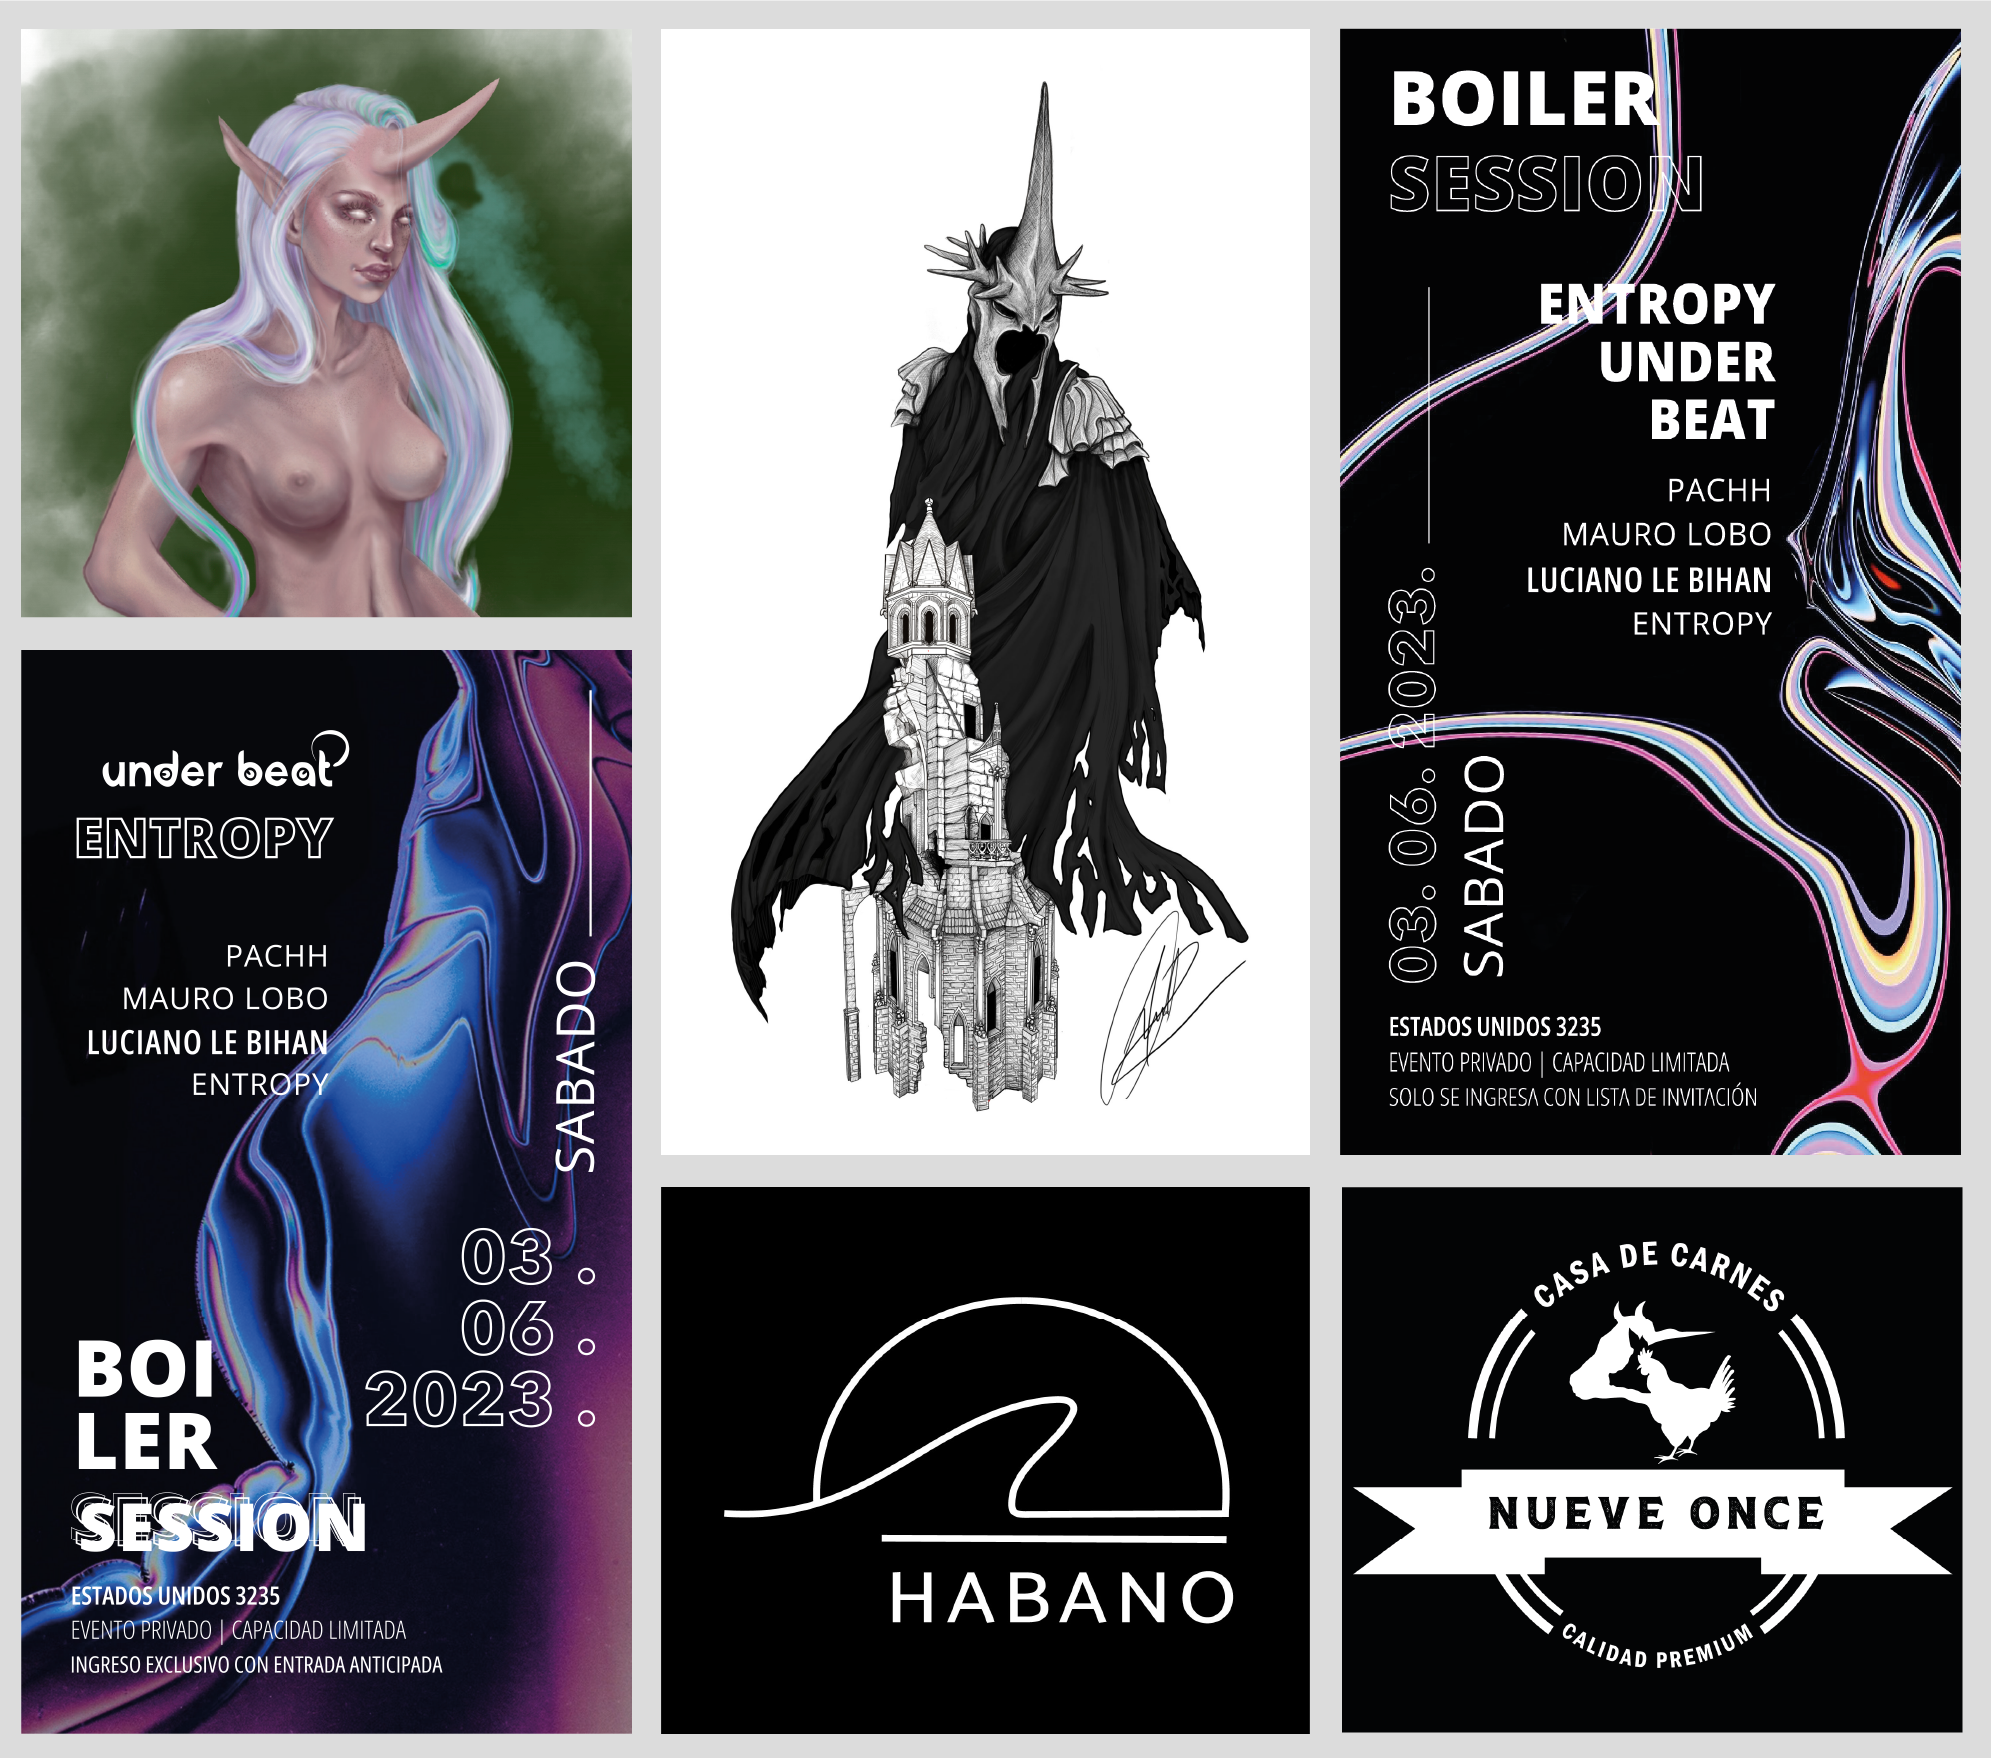
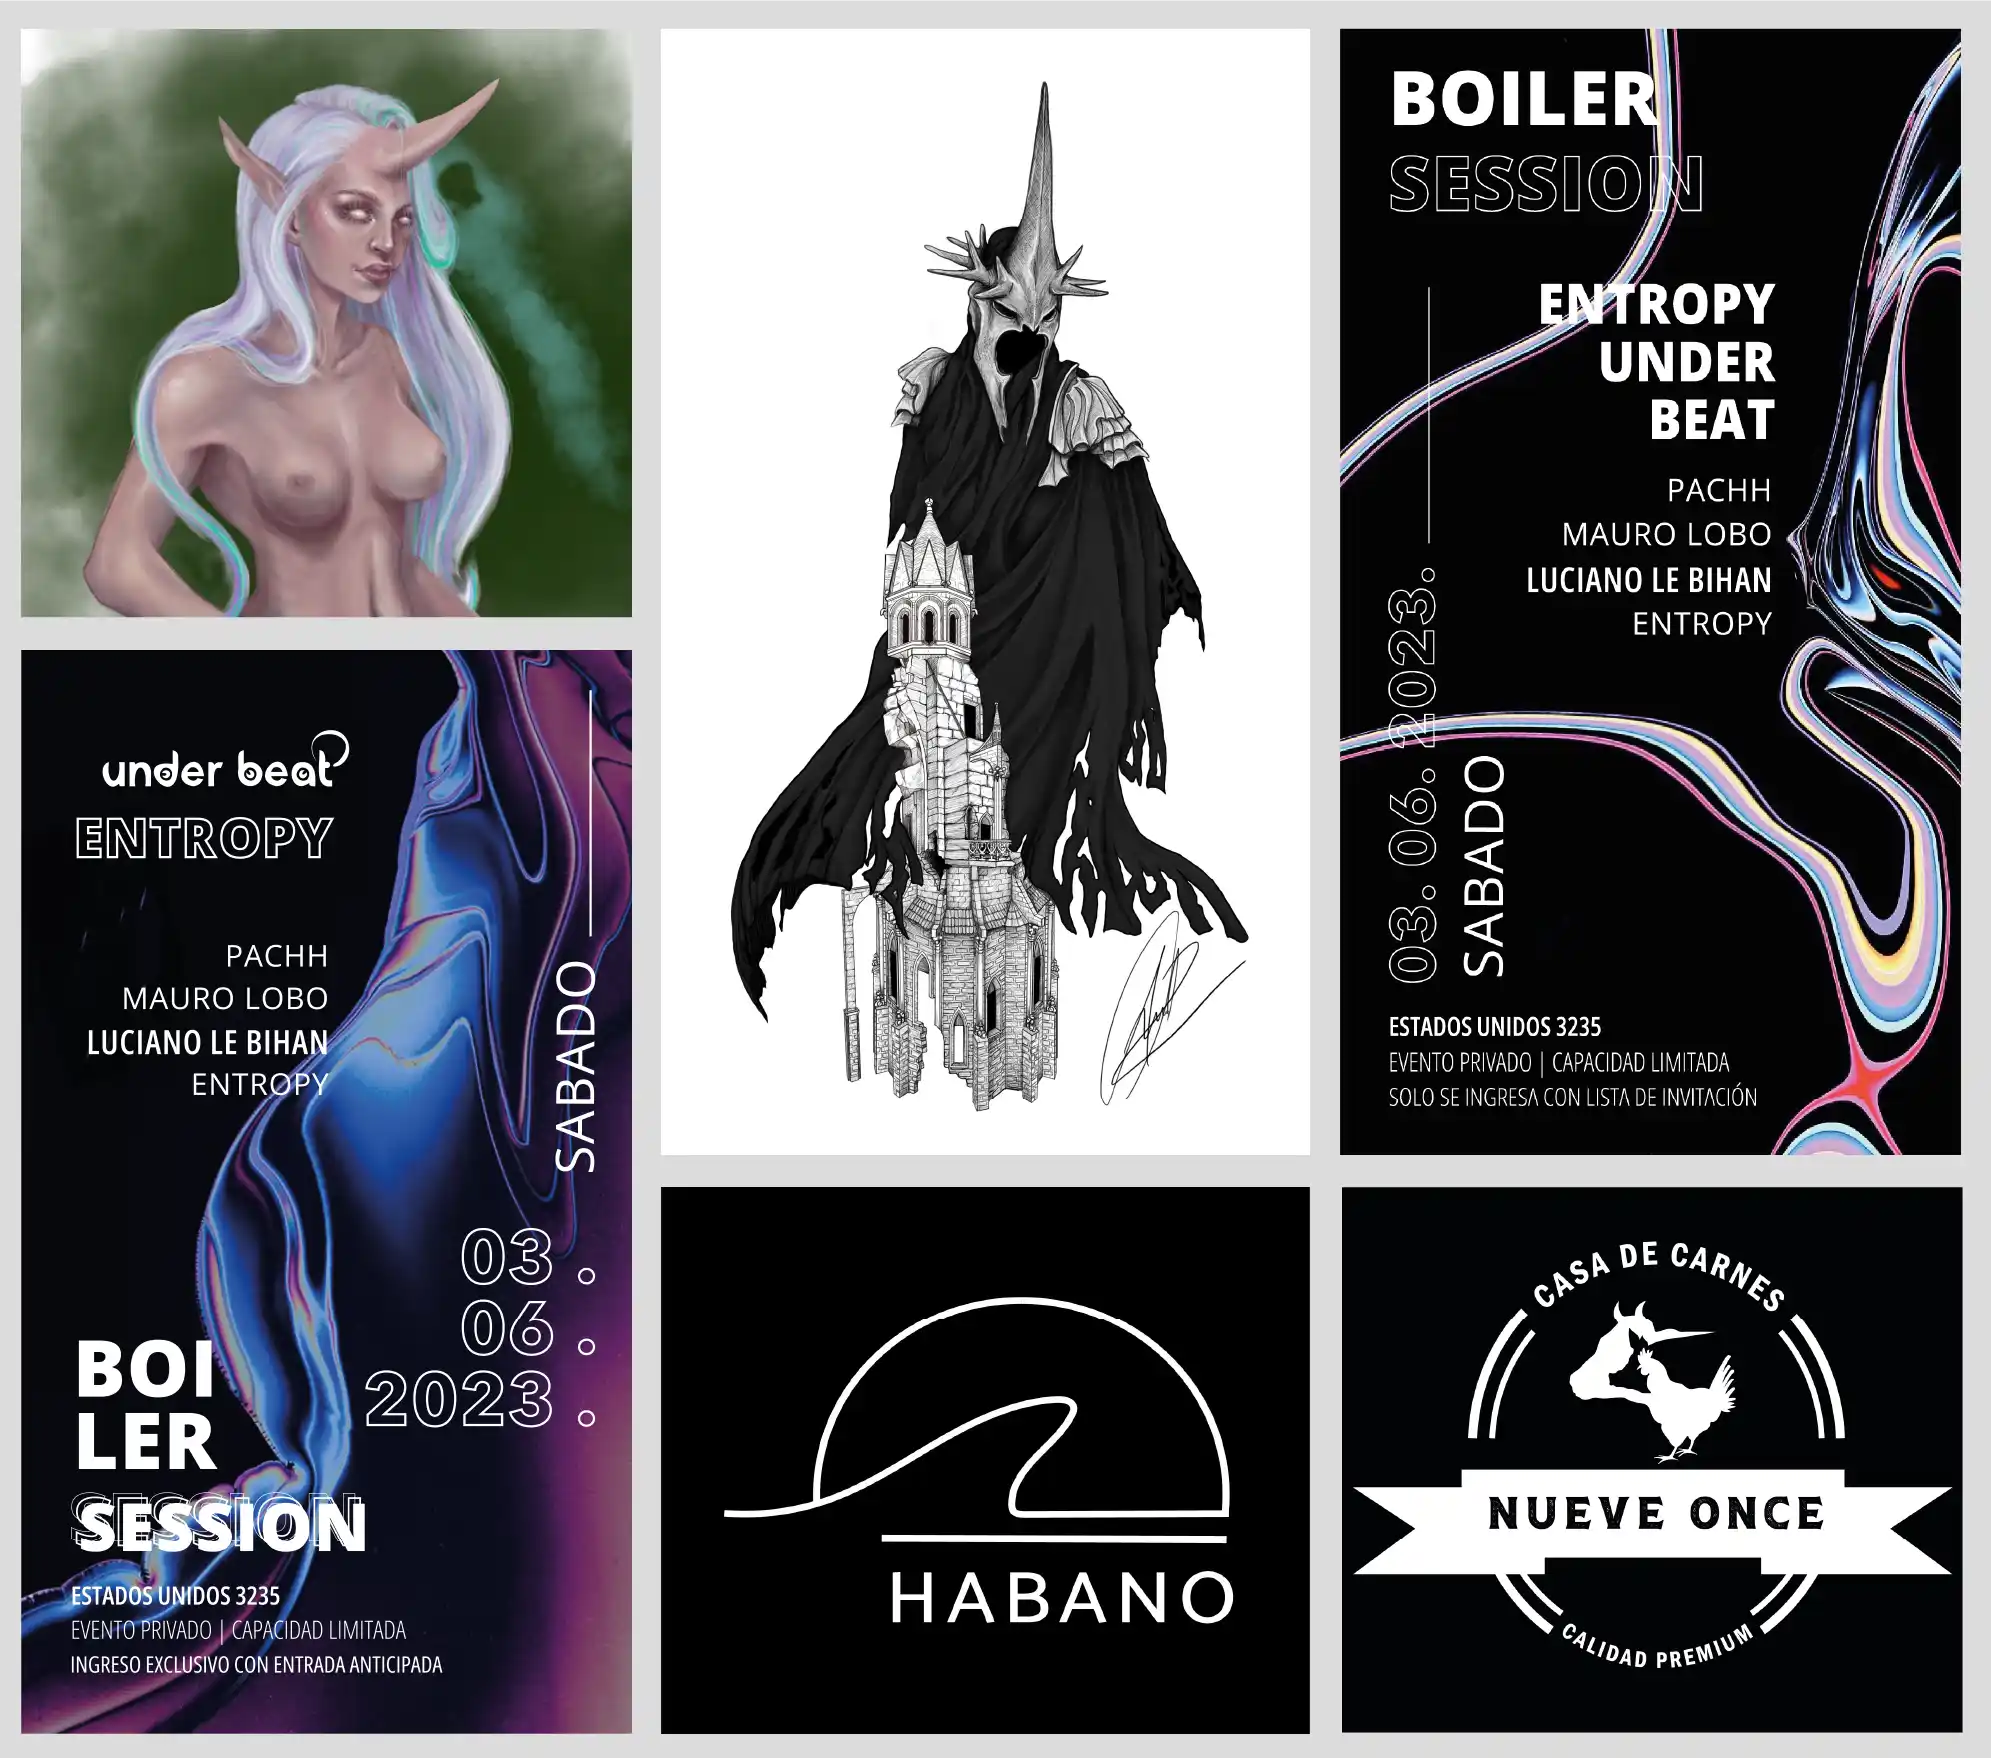
comprimiendo imagenes para responsive

diff --git a/src/app/componentes/cuerpo/data/dataContenido.js b/src/app/componentes/cuerpo/data/dataContenido.js
@@ -100,14 +100,14 @@ const dataDos = [
 
     content:
       "Creamos plataformas de comercio electrónico a medida, optimizadas para ofrecer una experiencia de usuario sin fricciones y maximizar las conversiones, combinando diseño atractivo y funcionalidad intuitiva.",
-    img: "/mokUp.jpg",
+    img: "/mockUp.webp",
   },
   {
     titleA: "Contenido Audiovisual",
 
     content:
       "Producimos contenido de video atractivo que captura la esencia de su marca y resuena con su público objetivo, desde videos corporativos hasta animaciones y contenido de marca impactante.",
-    img: "/mokUp.jpg",
+    img: "/audiov.webp",
   },
   {
     titleA: "Branding Empresarial",
@@ -127,7 +127,7 @@ const dataDos = [
     titleA: "Modelado & Render 3D",
     content:
       "Ofrecemos renderizados 3D fotorrealistas de alta calidad para arquitectura, productos y entornos virtuales, brindando visualizaciones impresionantes que facilitan la toma de decisiones y la comunicación efectiva.",
-    img: "/mokUp.jpg",
+    img: "/render.webp",
   },
   {
     titleA: "Invitaciones digitales",
